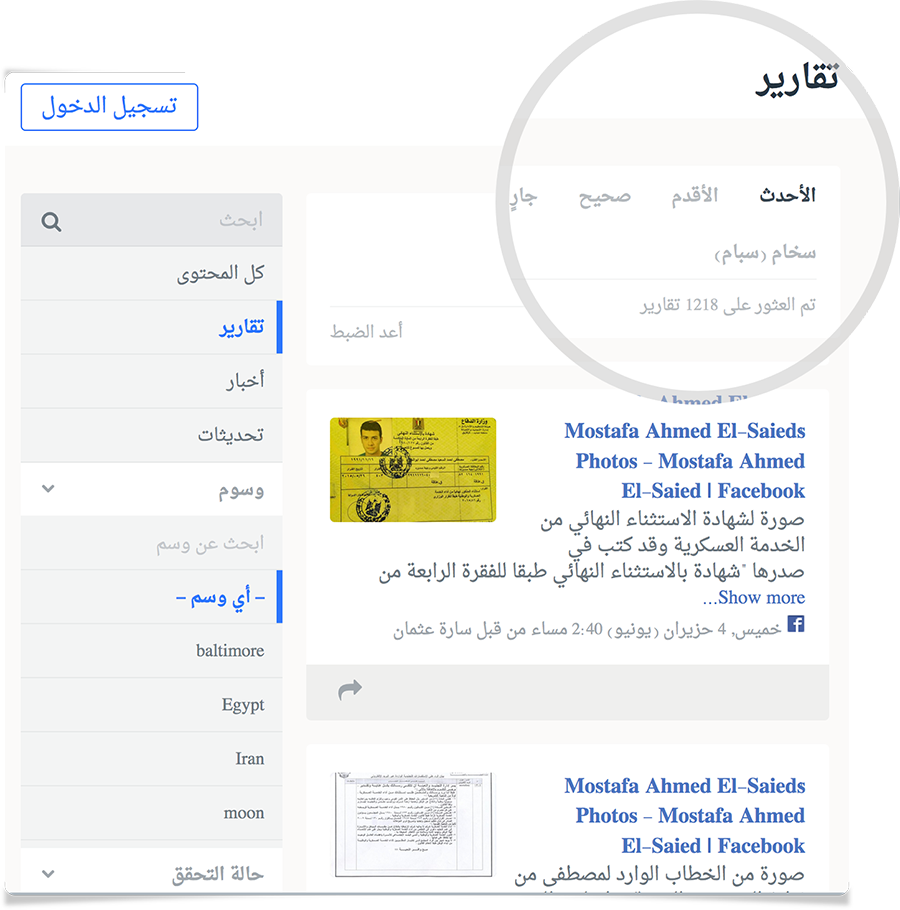
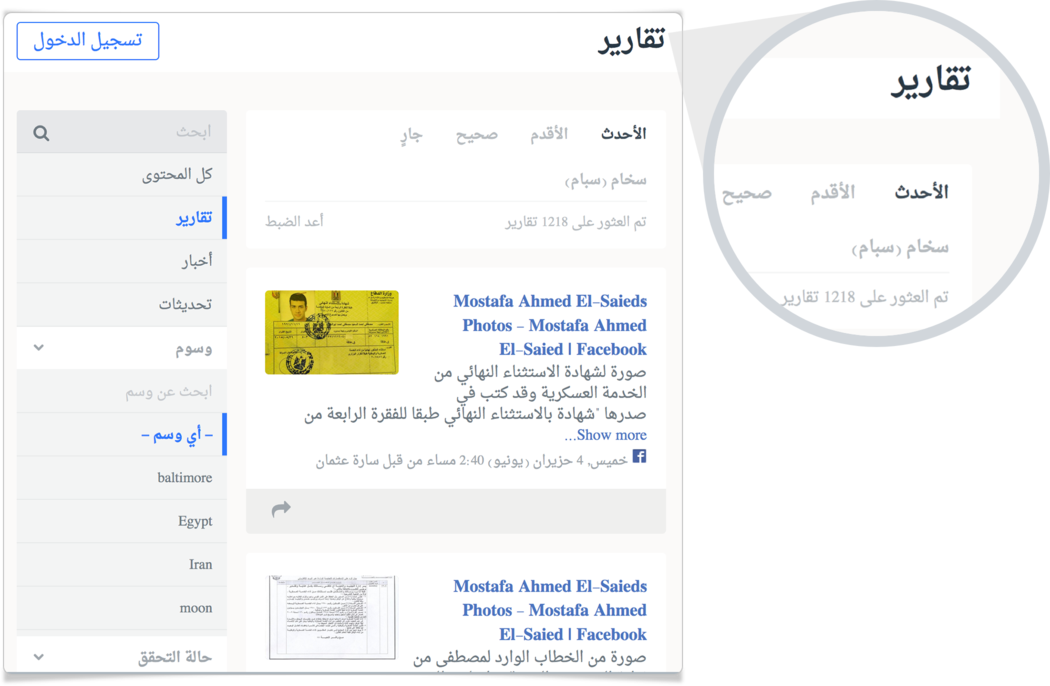
screenshots responsive. new style with cone screenshots in for arabic.

diff --git a/www/css/screen.css b/www/css/screen.css
@@ -1,1 +1,1 @@
-@import url("http://fonts.googleapis.com/css?family=Open+Sans:100,200,300,400,600");@import url("http://fonts.googleapis.com/css?family=Roboto:100,200,500");@import url("http://fonts.googleapis.com/earlyaccess/droidarabicnaskh.css");html{font-family:sans-serif;-ms-text-size-adjust:100%;-webkit-text-size-adjust:100%}body{margin:0}article,aside,details,figcaption,figure,footer,header,hgroup,main,menu,nav,section,.footer,summary{display:block}audio,canvas,progress,video{display:inline-block;vertical-align:baseline}audio:not([controls]){display:none;height:0}[hidden],template{display:none}a{background-color:transparent}a:active,a:hover{outline:0}abbr[title]{border-bottom:1px dotted}b,strong{font-weight:bold}dfn{font-style:italic}h1{font-size:2em;margin:0.67em 0}mark{background:#ff0;color:#000}small{font-size:80%}sub,sup{font-size:75%;line-height:0;position:relative;vertical-align:baseline}sup{top:-0.5em}sub{bottom:-0.25em}img{border:0}svg:not(:root){overflow:hidden}figure{margin:1em 40px}hr{box-sizing:content-box;height:0}pre{overflow:auto}code,kbd,pre,samp{font-family:monospace, monospace;font-size:1em}button,input,optgroup,select,textarea{color:inherit;font:inherit;margin:0}button{overflow:visible}button,select{text-transform:none}button,html input[type="button"],input[type="reset"],input[type="submit"]{-webkit-appearance:button;cursor:pointer}button[disabled],html input[disabled]{cursor:default}button::-moz-focus-inner,input::-moz-focus-inner{border:0;padding:0}input{line-height:normal}input[type="checkbox"],input[type="radio"]{box-sizing:border-box;padding:0}input[type="number"]::-webkit-inner-spin-button,input[type="number"]::-webkit-outer-spin-button{height:auto}input[type="search"]{-webkit-appearance:textfield;box-sizing:content-box}input[type="search"]::-webkit-search-cancel-button,input[type="search"]::-webkit-search-decoration{-webkit-appearance:none}fieldset{border:1px solid #c0c0c0;margin:0 2px;padding:0.35em 0.625em 0.75em}legend{border:0;padding:0}textarea{overflow:auto}optgroup{font-weight:bold}table{border-collapse:collapse;border-spacing:0}td,th{padding:0}*{box-sizing:border-box}body{min-width:320px}.projects,.logos,.home .latest .medium-channels,.home .team ul,.twocolumn{display:-webkit-box;display:-webkit-flex;display:-ms-flexbox;display:flex;-webkit-flex-flow:wrap row;-ms-flex-flow:wrap row;flex-flow:wrap row;-webkit-box-pack:center;-webkit-justify-content:center;-ms-flex-pack:center;justify-content:center;flex-align:center;-webkit-box-align:center;-webkit-align-items:center;-ms-flex-align:center;align-items:center}.form-group input,.ar form input[type='submit']{border-radius:4px;border-bottom-right-radius:0;border-top-right-radius:0;border-right-width:0}.form-group input[type='submit'],.ar form input{border-radius:4px;border-bottom-left-radius:0;border-left-width:0;border-top-left-radius:0}.form-group input[type='email'],.form-group input[type='text'],.form-group input[type='submit']{z-index:1}.form-group label{color:rgba(64,77,89,0.4);font-size:0.8em;font-weight:300;position:absolute;top:-2em;z-index:2}.form-group{display:-webkit-box;display:-webkit-flex;display:-ms-flexbox;display:flex;margin:2em auto;max-width:600px;min-width:320px;position:relative}.form-group input{padding:0.4em;border:2px solid #b7bcc0}.form-group input[type='submit']{color:white;background-color:#b7bcc0;padding-left:1.5em;padding-right:1.5em;margin:0 !important;border-color:#9ca3a8}.form-group input[type="email"]{-webkit-box-flex:1;-webkit-flex:1;-ms-flex:1;flex:1}body{-webkit-backface-visibility:hidden;backface-visibility:hidden}@-webkit-keyframes fadeIn{from{opacity:0}to{opacity:1}}@keyframes fadeIn{from{opacity:0}to{opacity:1}}@-webkit-keyframes fadeInUp{0%{opacity:0;-webkit-transform:translate3d(0, 10%, 0);transform:translate3d(0, 10%, 0)}100%{opacity:1;-webkit-transform:none;transform:none}}@keyframes fadeInUp{0%{opacity:0;-webkit-transform:translate3d(0, 10%, 0);transform:translate3d(0, 10%, 0)}100%{opacity:1;-webkit-transform:none;transform:none}}@-webkit-keyframes lightSpeedIn{0%{-webkit-transform:translateX(100%) skewX(-25deg);transform:translateX(100%) skewX(-25deg);opacity:0}60%{-webkit-transform:translateX(-20%) skewX(25deg);transform:translateX(-20%) skewX(25deg);opacity:1}80%{-webkit-transform:translateX(0%) skewX(-12.5deg);transform:translateX(0%) skewX(-12.5deg);opacity:1}100%{-webkit-transform:translateX(0%) skewX(0deg);transform:translateX(0%) skewX(0deg);opacity:1}}@keyframes lightSpeedIn{0%{-webkit-transform:translateX(100%) skewX(-25deg);transform:translateX(100%) skewX(-25deg);opacity:0}60%{-webkit-transform:translateX(-20%) skewX(25deg);transform:translateX(-20%) skewX(25deg);opacity:1}80%{-webkit-transform:translateX(0%) skewX(-12.5deg);transform:translateX(0%) skewX(-12.5deg);opacity:1}100%{-webkit-transform:translateX(0%) skewX(0deg);transform:translateX(0%) skewX(0deg);opacity:1}}@-webkit-keyframes jello{11.1%{-webkit-transform:none;transform:none}22.2%{-webkit-transform:skewX(-12.5deg) skewY(-12.5deg);transform:skewX(-12.5deg) skewY(-12.5deg)}33.3%{-webkit-transform:skewX(6.25deg) skewY(6.25deg);transform:skewX(6.25deg) skewY(6.25deg)}44.4%{-webkit-transform:skewX(-3.125deg) skewY(-3.125deg);transform:skewX(-3.125deg) skewY(-3.125deg)}55.5%{-webkit-transform:skewX(1.5625deg) skewY(1.5625deg);transform:skewX(1.5625deg) skewY(1.5625deg)}66.6%{-webkit-transform:skewX(-0.78125deg) skewY(-0.78125deg);transform:skewX(-0.78125deg) skewY(-0.78125deg)}77.7%{-webkit-transform:skewX(0.39063deg) skewY(0.39063deg);transform:skewX(0.39063deg) skewY(0.39063deg)}88.8%{-webkit-transform:skewX(-0.19531deg) skewY(-0.19531deg);transform:skewX(-0.19531deg) skewY(-0.19531deg)}100%{-webkit-transform:none;transform:none}}@keyframes jello{11.1%{-webkit-transform:none;transform:none}22.2%{-webkit-transform:skewX(-12.5deg) skewY(-12.5deg);transform:skewX(-12.5deg) skewY(-12.5deg)}33.3%{-webkit-transform:skewX(6.25deg) skewY(6.25deg);transform:skewX(6.25deg) skewY(6.25deg)}44.4%{-webkit-transform:skewX(-3.125deg) skewY(-3.125deg);transform:skewX(-3.125deg) skewY(-3.125deg)}55.5%{-webkit-transform:skewX(1.5625deg) skewY(1.5625deg);transform:skewX(1.5625deg) skewY(1.5625deg)}66.6%{-webkit-transform:skewX(-0.78125deg) skewY(-0.78125deg);transform:skewX(-0.78125deg) skewY(-0.78125deg)}77.7%{-webkit-transform:skewX(0.39063deg) skewY(0.39063deg);transform:skewX(0.39063deg) skewY(0.39063deg)}88.8%{-webkit-transform:skewX(-0.19531deg) skewY(-0.19531deg);transform:skewX(-0.19531deg) skewY(-0.19531deg)}100%{-webkit-transform:none;transform:none}}@-webkit-keyframes bounceIn{0%{opacity:0;-webkit-transform:scale(0.3);transform:scale(0.3)}50%{opacity:1;-webkit-transform:scale(1.05);transform:scale(1.05)}70%{-webkit-transform:scale(0.9);transform:scale(0.9)}100%{-webkit-transform:scale(1);transform:scale(1)}}@keyframes bounceIn{0%{opacity:0;-webkit-transform:scale(0.3);transform:scale(0.3)}50%{opacity:1;-webkit-transform:scale(1.05);transform:scale(1.05)}70%{-webkit-transform:scale(0.9);transform:scale(0.9)}100%{-webkit-transform:scale(1);transform:scale(1)}}@-webkit-keyframes zoomInUp{0%{opacity:0;-webkit-transform:scale3d(0.1, 0.1, 0.1) translate3d(0, 1000px, 0);transform:scale3d(0.1, 0.1, 0.1) translate3d(0, 1000px, 0);-webkit-animation-timing-function:cubic-bezier(0.55, 0.055, 0.675, 0.19);animation-timing-function:cubic-bezier(0.55, 0.055, 0.675, 0.19)}60%{opacity:1;-webkit-transform:scale3d(0.475, 0.475, 0.475) translate3d(0, -60px, 0);transform:scale3d(0.475, 0.475, 0.475) translate3d(0, -60px, 0);-webkit-animation-timing-function:cubic-bezier(0.175, 0.885, 0.32, 1);animation-timing-function:cubic-bezier(0.175, 0.885, 0.32, 1)}}@keyframes zoomInUp{0%{opacity:0;-webkit-transform:scale3d(0.1, 0.1, 0.1) translate3d(0, 1000px, 0);transform:scale3d(0.1, 0.1, 0.1) translate3d(0, 1000px, 0);-webkit-animation-timing-function:cubic-bezier(0.55, 0.055, 0.675, 0.19);animation-timing-function:cubic-bezier(0.55, 0.055, 0.675, 0.19)}60%{opacity:1;-webkit-transform:scale3d(0.475, 0.475, 0.475) translate3d(0, -60px, 0);transform:scale3d(0.475, 0.475, 0.475) translate3d(0, -60px, 0);-webkit-animation-timing-function:cubic-bezier(0.175, 0.885, 0.32, 1);animation-timing-function:cubic-bezier(0.175, 0.885, 0.32, 1)}}body{color:#404d59;font-family:"Open Sans","Helvetica Neue","Helvetica",sans-serif;font-size:20px;font-weight:300;line-height:1.5;text-align:center}body.ar{line-height:1.3;font-family:"Droid Arabic Naskh","Open Sans",serif;direction:rtl;letter-spacing:0}body.ar p.tagline{text-align:right}body.ar .description p{text-align:right}p:nth-of-type(1){padding-bottom:2em}h1{color:rgba(0,0,0,0.5);font-family:Roboto,"Open Sans","Helvetica Neue","Helvetica",sans-serif;font-size:2.6em;font-weight:100;letter-spacing:0.1em;letter-spacing:0.2em;padding:0.5em 0.5em 0.2em 0.5em;text-transform:uppercase}h2,h3,h4{display:block;font-family:Roboto,"Open Sans","Helvetica Neue","Helvetica",sans-serif;font-size:1.5em;font-weight:200;letter-spacing:0.1em;line-height:1.2;margin:0;padding:3em 1em 2em;text-transform:uppercase}@media all and (max-width: 900px){h2,h3,h4{padding:2em 1em;}}em{font-style:italic}ul{margin:0.5em 0;padding:0;text-align:center}@media all and (max-width: 900px){ul{margin-top:0.5em 0 0;}}li{display:inline-block;padding:0 1em 1em}@media all and (max-width: 900px){li{padding:0 0.5em 0.5em;display:block;}}@media all and (max-width: 900px){li>a{display:block;padding:1.4em;}}p{display:block;font-size:1em;line-height:1.85;margin:0 auto;max-width:35em;padding:0;width:100%}@media all and (max-width: 900px){p{line-height:1.85;padding:1em 0.7em;width:80%;}}a{color:#6d9ed3}a:hover{color:#596d74;-webkit-transition:0.4s;transition:0.4s}body.ar{line-height:1.3;font-family:"Droid Arabic Naskh","Open Sans",serif}body.ar p.tagline{text-align:right}body.ar .description p{text-align:right}section.contact,.contact.footer{background:#404d59;color:#e7e8ea}section.contact li,.contact.footer li{display:inline-block;vertical-align:top}section.contact li p,.contact.footer li p{margin:0;padding:0}section.contact .contact--visit .locations li,.contact.footer .contact--visit .locations li{clear:none;font-family:Roboto,"Open Sans","Helvetica Neue","Helvetica",sans-serif;height:12em}@media all and (min-width: 900px){section.contact .contact--visit .locations li,.contact.footer .contact--visit .locations li{width:33%;}}section.contact .contact--visit .locations li h4,.contact.footer .contact--visit .locations li h4{font-size:0.8em;font-weight:100;margin:1em}section.contact .contact--visit .locations li p,.contact.footer .contact--visit .locations li p{-webkit-filter:opacity(0.7);filter:opacity(0.7);font-size:0.8em;font-weight:100;margin:0 auto}section.contact .contact--call a,.contact.footer .contact--call a,section.contact .contact--write a,.contact.footer .contact--write a{font-size:1.6em;border:1px solid rgba(255,255,255,0.5);padding:1em 0.8em;color:rgba(255,255,255,0.8);display:block;font-family:Roboto,"Open Sans","Helvetica Neue","Helvetica",sans-serif;font-weight:100;-webkit-transition:0.6s;transition:0.6s;text-decoration:none}section.contact .contact--call a:hover,.contact.footer .contact--call a:hover,section.contact .contact--write a:hover,.contact.footer .contact--write a:hover{color:white;border-color:white;-webkit-transition:0s;transition:0s;background-color:rgba(250,251,251,0.1);-webkit-transition:0.3s;transition:0.3s}@media all and (max-width: 900px){section.contact .contact--call a,.contact.footer .contact--call a,section.contact .contact--write a,.contact.footer .contact--write a{font-size:1em;}}section.contact .contact--social-media,.contact.footer .contact--social-media{-webkit-columns:100% 4;-moz-columns:100% 4;columns:100% 4;margin:2em 0 0;padding:0;-webkit-transition:200ms;transition:200ms;width:100%}section.contact .contact--social-media a,.contact.footer .contact--social-media a{text-decoration:none;border-bottom:none;-webkit-transition:0.5s;transition:0.5s}section.contact .contact--social-media a:hover,.contact.footer .contact--social-media a:hover{-webkit-filter:opacity(0.7);filter:opacity(0.7)}section.contact .contact--social-media a svg,.contact.footer .contact--social-media a svg{width:80px}.projects{background:-webkit-linear-gradient(340deg, #e4ba2a, #f16457);background:linear-gradient(110deg, #e4ba2a, #f16457)}.projects>div{background:rgba(255,255,255,0.1);border:1px solid rgba(250,251,251,0.2)}.projects{background:#404d59}.projects{-webkit-box-pack:center;-webkit-justify-content:center;-ms-flex-pack:center;justify-content:center}@media (max-width: 900px){.projects>div,.projects svg{width:100%}}.projects .bridge svg{width:11em}.projects .checkdesk svg{width:15em}.projects h3{width:100%;color:white}.projects .bridge,.projects .checkdesk{color:#fafbfb;padding:2em 2em;width:40%;margin:1em}@media all and (max-width: 900px){.projects .bridge,.projects .checkdesk{width:100%;}}.projects .bridge p,.projects .checkdesk p{font-size:1em;line-height:1.3;padding-bottom:1em}.projects .bridge p.blurb,.projects .checkdesk p.blurb{min-height:11em}.projects .bridge p.blurb,.projects .bridge p.learn,.projects .checkdesk p.blurb,.projects .checkdesk p.learn{font-size:0.8em}.projects .bridge p.tagline,.projects .checkdesk p.tagline{font-weight:500;color:rgba(255,255,255,0.8);padding:0.5em 0 2em 0em}.projects .bridge p a,.projects .checkdesk p a{background-color:rgba(255,255,255,0.1);border-radius:14px;color:white;font-size:0.9em;padding:0 0.5em;text-decoration:none}@media all and (max-width: 900px){.projects .bridge svg,.projects .checkdesk svg{max-width:300px;width:100%}.projects .bridge p,.projects .checkdesk p{padding:0;width:95%}}.branding{padding:2em 1em 1em}.branding h1{margin:0;font-size:2.5em;font:Roboto,"Open Sans","Helvetica Neue","Helvetica",sans-serif;-webkit-animation:fadeIn 1.2s;animation:fadeIn 1.2s}.branding .screenshot{max-width:900px;min-width:320px;padding-top:2em;padding-bottom:2em;width:80%;margin:0 auto;-webkit-animation:fadeInUp 1s;animation:fadeInUp 1s}.branding .zoom{top:175px;-webkit-animation:fadeIn 2s;animation:fadeIn 2s}.branding .slogan{padding:1em 0;font-size:1.25em;-webkit-animation:fadeIn 1.2s;animation:fadeIn 1.2s}.branding .about{-webkit-animation:fadeIn 2.5s;animation:fadeIn 2.5s;padding:2em 0}.branding .logo{width:200px;-webkit-animation:fadeIn 0.8s;animation:fadeIn 0.8s}.bridge .branding .logo,.checkdesk .branding .logo{width:300px}@media all and (max-width: 900px){.branding .logo{max-width:200px;width:70%}}.logos a{padding:1em}.logos img,.logos svg{max-width:150px;max-height:50px}.logos .acm svg,.logos .acm img,.logos .sida svg,.logos .sida img{max-width:100px}.logos .kf svg,.logos .kf img{width:250px}.logos .kf svg,.logos .kf img,.logos .gv svg,.logos .gv img,.logos .ff svg,.logos .ff img,.logos .bcu svg,.logos .bcu img,.logos .smex svg,.logos .smex img,.logos .bc svg,.logos .bc img,.logos .vc svg,.logos .vc img,.logos .cambridge svg,.logos .cambridge img{max-width:250px}.logos .bc img{max-height:90px}.logos .ng{margin-top:10px}.home .latest{padding-bottom:6em}.home .latest .medium-channels{-webkit-box-pack:center;-webkit-justify-content:center;-ms-flex-pack:center;justify-content:center}.home .latest .medium-channels .medium-channel{margin:1em 1em}.home .latest .medium-channels .medium-channel iframe{height:620px !important}.home .team ul{margin:0 auto}@media (max-width: 320px){.home .team ul{width:320px;}}@media (min-width: 480px){.home .team ul{width:480px;}}@media (min-width: 800px){.home .team ul{width:800px;}}@media (min-width: 1120px){.home .team ul{width:1120px;}}@media (min-width: 1600px){.home .team ul{width:1600px;}}@media (min-width: 2240px){.home .team ul{width:2240px;}}.home .team ul .name{font-weight:500;padding-top:.5em}.home .team ul li{-webkit-box-flex:0;-webkit-flex:0 1 auto;-ms-flex:0 1 auto;flex:0 1 auto;font-family:Roboto,"Open Sans","Helvetica Neue","Helvetica",sans-serif;font-size:0.7em;height:15em;width:160px}.home .team ul img{border-radius:50%;max-height:100px;max-width:100px;width:100%;-webkit-filter:sepia(25%);filter:sepia(25%)}.explanations{margin:0 auto;padding:1;width:100%;max-width:800px}.explanations h4{font-size:1;font-weight:100;padding:3em 0em .5em 0em;width:100%}.explanations p{display:inline-block;font-size:1.2em;vertical-align:top;text-align:left;width:100%;padding:1em 1em}@media (max-width: 900px){.explanations p{width:100%;padding:1em;}}.explanations img.screenshot{display:inline-block;margin:2% 5%}@media (max-width: 640px){.explanations img.screenshot{height:100%;}}.footer{background-color:#283743;padding:1em}.footer a{color:white}body.bridge .branding,body.bridge .api,body.bridge .history,body.bridge .footer{background:#42476f;color:rgba(255,255,255,0.8)}body.bridge .supporters,body.bridge .explanations{background-color:white;color:#404d59}.home .photo-frame{background-color:#283743;background-image:url("../images/1x/banners/banner-2.jpg");background-position:50%;background-size:cover;background-repeat:no-repeat;vertical-align:middle;width:100%;margin:0 auto;-webkit-transition:2s;transition:2s;color:white;padding:4em 0;text-shadow:0 0 5px black}nav.language-toggle{position:absolute;top:0;right:0;margin:0.8em;padding:0.3em 1em;background-color:rgba(255,255,255,0.1);border-radius:5em}nav.language-toggle a{color:rgba(0,0,0,0.5);text-decoration:none;padding:0.2em 0.3em 0}:lang(ar) nav.language-toggle a.arabic,:lang(en) nav.language-toggle a.english{color:black;font-weight:700}nav.language-toggle a.english{float:left;font-size:0.8em;margin-top:0.2em}nav.language-toggle a.arabic{float:right}.bridge .signup{color:rgba(255,255,255,0.7);font-size:0.8em;padding:2em 0 0.5em;background:250% #42476f url("/images/2x/banners/topo.png");font-weight:200;letter-spacing:0.03em}.bridge .signup p{margin-top:0.5em;line-height:1.6}.bridge .signup h2{font-size:1em;padding:0.5em}.bridge .signup a{color:white;color:white;text-decoration:none;text-shadow:0.03em 0 #42476f,-0.03em 0 #42476f,0 0.03em #42476f,0 -0.03em #42476f,0.06em 0 #42476f,-0.06em 0 #42476f,0.09em 0 #42476f,-0.09em 0 #42476f,0.12em 0 #42476f,-0.12em 0 #42476f,0.15em 0 #42476f,-0.15em 0 #42476f;background-image:-webkit-linear-gradient(#42476f, #42476f), linear-gradient(#42476f, #42476f), linear-gradient(white, white);background-image:linear-gradient(#42476f, #42476f),linear-gradient(#42476f, #42476f),linear-gradient(white, white);background-size:.05em 1px,.05em 1px,1px 1px;background-repeat:no-repeat, no-repeat, repeat-x;background-position:0% 90%,100% 90%,0% 90%}.bridge .signup a::-moz-selection{text-shadow:0.03em 0 #b4d5fe,-0.03em 0 #b4d5fe,0 0.03em #b4d5fe,0 -0.03em #b4d5fe,0.06em 0 #b4d5fe,-0.06em 0 #b4d5fe,0.09em 0 #b4d5fe,-0.09em 0 #b4d5fe,0.12em 0 #b4d5fe,-0.12em 0 #b4d5fe,0.15em 0 #b4d5fe,-0.15em 0 #b4d5fe;background-color:#b4d5fe}.bridge .signup a::selection{text-shadow:0.03em 0 #b4d5fe,-0.03em 0 #b4d5fe,0 0.03em #b4d5fe,0 -0.03em #b4d5fe,0.06em 0 #b4d5fe,-0.06em 0 #b4d5fe,0.09em 0 #b4d5fe,-0.09em 0 #b4d5fe,0.12em 0 #b4d5fe,-0.12em 0 #b4d5fe,0.15em 0 #b4d5fe,-0.15em 0 #b4d5fe;background-color:#b4d5fe}.bridge .signup a::-moz-selection{text-shadow:0.03em 0 #b4d5fe,-0.03em 0 #b4d5fe,0 0.03em #b4d5fe,0 -0.03em #b4d5fe,0.06em 0 #b4d5fe,-0.06em 0 #b4d5fe,0.09em 0 #b4d5fe,-0.09em 0 #b4d5fe,0.12em 0 #b4d5fe,-0.12em 0 #b4d5fe,0.15em 0 #b4d5fe,-0.15em 0 #b4d5fe;background-color:#b4d5fe}.bridge .signup a:before,.bridge .signup a:after,.bridge .signup a *,.bridge .signup a *:before,.bridge .signup a *:after{text-shadow:none}.bridge .signup a:visited{color:white}.bridge .history a{color:white;color:white;text-decoration:none;text-shadow:0.03em 0 #42476f,-0.03em 0 #42476f,0 0.03em #42476f,0 -0.03em #42476f,0.06em 0 #42476f,-0.06em 0 #42476f,0.09em 0 #42476f,-0.09em 0 #42476f,0.12em 0 #42476f,-0.12em 0 #42476f,0.15em 0 #42476f,-0.15em 0 #42476f;background-image:-webkit-linear-gradient(#42476f, #42476f), linear-gradient(#42476f, #42476f), linear-gradient(white, white);background-image:linear-gradient(#42476f, #42476f),linear-gradient(#42476f, #42476f),linear-gradient(white, white);background-size:.05em 1px,.05em 1px,1px 1px;background-repeat:no-repeat, no-repeat, repeat-x;background-position:0% 90%,100% 90%,0% 90%}.bridge .history a::-moz-selection{text-shadow:0.03em 0 #b4d5fe,-0.03em 0 #b4d5fe,0 0.03em #b4d5fe,0 -0.03em #b4d5fe,0.06em 0 #b4d5fe,-0.06em 0 #b4d5fe,0.09em 0 #b4d5fe,-0.09em 0 #b4d5fe,0.12em 0 #b4d5fe,-0.12em 0 #b4d5fe,0.15em 0 #b4d5fe,-0.15em 0 #b4d5fe;background-color:#b4d5fe}.bridge .history a::selection{text-shadow:0.03em 0 #b4d5fe,-0.03em 0 #b4d5fe,0 0.03em #b4d5fe,0 -0.03em #b4d5fe,0.06em 0 #b4d5fe,-0.06em 0 #b4d5fe,0.09em 0 #b4d5fe,-0.09em 0 #b4d5fe,0.12em 0 #b4d5fe,-0.12em 0 #b4d5fe,0.15em 0 #b4d5fe,-0.15em 0 #b4d5fe;background-color:#b4d5fe}.bridge .history a::-moz-selection{text-shadow:0.03em 0 #b4d5fe,-0.03em 0 #b4d5fe,0 0.03em #b4d5fe,0 -0.03em #b4d5fe,0.06em 0 #b4d5fe,-0.06em 0 #b4d5fe,0.09em 0 #b4d5fe,-0.09em 0 #b4d5fe,0.12em 0 #b4d5fe,-0.12em 0 #b4d5fe,0.15em 0 #b4d5fe,-0.15em 0 #b4d5fe;background-color:#b4d5fe}.bridge .history a:before,.bridge .history a:after,.bridge .history a *,.bridge .history a *:before,.bridge .history a *:after{text-shadow:none}.bridge .history a:visited{color:white}body.checkdesk .explanations{background-color:white;color:#404d59}body.checkdesk .team{background-color:#f1f2ed}body.checkdesk .branding{background-color:#e4ba2a;color:white}body.checkdesk .history,body.checkdesk .github,body.checkdesk .footer{background-color:#404d59;color:#e7e8ea}body.checkdesk .history a,body.checkdesk .github a,body.checkdesk .footer a{color:rgba(255,255,255,0.7);padding:0.18em}body.checkdesk .history a a:hover,body.checkdesk .github a a:hover,body.checkdesk .footer a a:hover{background-color:rgba(231,232,234,0.5)}body.checkdesk .newsletter{background-color:#fafbfb}body.checkdesk .partners{background-color:white}.checkdesk .form-group{font-size:1.3em}.checkdesk .form-group input{font-size:inherit}body.ar{direction:rtl}.footer{font-size:smaller}body.home{background-color:white}.twocolumn{-webkit-box-pack:center;-webkit-justify-content:center;-ms-flex-pack:center;justify-content:center}.quote{max-width:45%;padding:1em 1.5em 2em 1em}.quote p{font-size:1em}@media all and (max-width: 900px){.quote{min-width:100%;}}.quote p.bottomquote{font-weight:500;padding:0 0 0 0}
+@import url("http://fonts.googleapis.com/css?family=Open+Sans:100,200,300,400,600");@import url("http://fonts.googleapis.com/css?family=Roboto:100,200,500");@import url("http://fonts.googleapis.com/earlyaccess/droidarabicnaskh.css");html{font-family:sans-serif;-ms-text-size-adjust:100%;-webkit-text-size-adjust:100%}body{margin:0}article,aside,details,figcaption,figure,footer,header,hgroup,main,menu,nav,section,.footer,summary{display:block}audio,canvas,progress,video{display:inline-block;vertical-align:baseline}audio:not([controls]){display:none;height:0}[hidden],template{display:none}a{background-color:transparent}a:active,a:hover{outline:0}abbr[title]{border-bottom:1px dotted}b,strong{font-weight:bold}dfn{font-style:italic}h1{font-size:2em;margin:0.67em 0}mark{background:#ff0;color:#000}small{font-size:80%}sub,sup{font-size:75%;line-height:0;position:relative;vertical-align:baseline}sup{top:-0.5em}sub{bottom:-0.25em}img{border:0}svg:not(:root){overflow:hidden}figure{margin:1em 40px}hr{box-sizing:content-box;height:0}pre{overflow:auto}code,kbd,pre,samp{font-family:monospace, monospace;font-size:1em}button,input,optgroup,select,textarea{color:inherit;font:inherit;margin:0}button{overflow:visible}button,select{text-transform:none}button,html input[type="button"],input[type="reset"],input[type="submit"]{-webkit-appearance:button;cursor:pointer}button[disabled],html input[disabled]{cursor:default}button::-moz-focus-inner,input::-moz-focus-inner{border:0;padding:0}input{line-height:normal}input[type="checkbox"],input[type="radio"]{box-sizing:border-box;padding:0}input[type="number"]::-webkit-inner-spin-button,input[type="number"]::-webkit-outer-spin-button{height:auto}input[type="search"]{-webkit-appearance:textfield;box-sizing:content-box}input[type="search"]::-webkit-search-cancel-button,input[type="search"]::-webkit-search-decoration{-webkit-appearance:none}fieldset{border:1px solid #c0c0c0;margin:0 2px;padding:0.35em 0.625em 0.75em}legend{border:0;padding:0}textarea{overflow:auto}optgroup{font-weight:bold}table{border-collapse:collapse;border-spacing:0}td,th{padding:0}*{box-sizing:border-box}body{min-width:320px}.projects,.logos,.home .latest .medium-channels,.home .team ul,.twocolumn{display:-webkit-box;display:-webkit-flex;display:-ms-flexbox;display:flex;-webkit-flex-flow:wrap row;-ms-flex-flow:wrap row;flex-flow:wrap row;-webkit-box-pack:center;-webkit-justify-content:center;-ms-flex-pack:center;justify-content:center;flex-align:center;-webkit-box-align:center;-webkit-align-items:center;-ms-flex-align:center;align-items:center}.form-group input,.ar form input[type='submit']{border-radius:4px;border-bottom-right-radius:0;border-top-right-radius:0;border-right-width:0}.form-group input[type='submit'],.ar form input{border-radius:4px;border-bottom-left-radius:0;border-left-width:0;border-top-left-radius:0}.form-group input[type='email'],.form-group input[type='text'],.form-group input[type='submit']{z-index:1}.form-group label{color:rgba(64,77,89,0.4);font-size:0.8em;font-weight:300;position:absolute;top:-2em;z-index:2}.form-group{display:-webkit-box;display:-webkit-flex;display:-ms-flexbox;display:flex;margin:2em auto;max-width:600px;min-width:320px;position:relative}.form-group input{padding:0.4em;border:2px solid #b7bcc0}.form-group input[type='submit']{color:white;background-color:#b7bcc0;padding-left:1.5em;padding-right:1.5em;margin:0 !important;border-color:#9ca3a8}.form-group input[type="email"]{-webkit-box-flex:1;-webkit-flex:1;-ms-flex:1;flex:1}body{-webkit-backface-visibility:hidden;backface-visibility:hidden}@-webkit-keyframes fadeIn{from{opacity:0}to{opacity:1}}@keyframes fadeIn{from{opacity:0}to{opacity:1}}@-webkit-keyframes fadeInUp{0%{opacity:0;-webkit-transform:translate3d(0, 10%, 0);transform:translate3d(0, 10%, 0)}100%{opacity:1;-webkit-transform:none;transform:none}}@keyframes fadeInUp{0%{opacity:0;-webkit-transform:translate3d(0, 10%, 0);transform:translate3d(0, 10%, 0)}100%{opacity:1;-webkit-transform:none;transform:none}}@-webkit-keyframes lightSpeedIn{0%{-webkit-transform:translateX(100%) skewX(-25deg);transform:translateX(100%) skewX(-25deg);opacity:0}60%{-webkit-transform:translateX(-20%) skewX(25deg);transform:translateX(-20%) skewX(25deg);opacity:1}80%{-webkit-transform:translateX(0%) skewX(-12.5deg);transform:translateX(0%) skewX(-12.5deg);opacity:1}100%{-webkit-transform:translateX(0%) skewX(0deg);transform:translateX(0%) skewX(0deg);opacity:1}}@keyframes lightSpeedIn{0%{-webkit-transform:translateX(100%) skewX(-25deg);transform:translateX(100%) skewX(-25deg);opacity:0}60%{-webkit-transform:translateX(-20%) skewX(25deg);transform:translateX(-20%) skewX(25deg);opacity:1}80%{-webkit-transform:translateX(0%) skewX(-12.5deg);transform:translateX(0%) skewX(-12.5deg);opacity:1}100%{-webkit-transform:translateX(0%) skewX(0deg);transform:translateX(0%) skewX(0deg);opacity:1}}@-webkit-keyframes jello{11.1%{-webkit-transform:none;transform:none}22.2%{-webkit-transform:skewX(-12.5deg) skewY(-12.5deg);transform:skewX(-12.5deg) skewY(-12.5deg)}33.3%{-webkit-transform:skewX(6.25deg) skewY(6.25deg);transform:skewX(6.25deg) skewY(6.25deg)}44.4%{-webkit-transform:skewX(-3.125deg) skewY(-3.125deg);transform:skewX(-3.125deg) skewY(-3.125deg)}55.5%{-webkit-transform:skewX(1.5625deg) skewY(1.5625deg);transform:skewX(1.5625deg) skewY(1.5625deg)}66.6%{-webkit-transform:skewX(-0.78125deg) skewY(-0.78125deg);transform:skewX(-0.78125deg) skewY(-0.78125deg)}77.7%{-webkit-transform:skewX(0.39063deg) skewY(0.39063deg);transform:skewX(0.39063deg) skewY(0.39063deg)}88.8%{-webkit-transform:skewX(-0.19531deg) skewY(-0.19531deg);transform:skewX(-0.19531deg) skewY(-0.19531deg)}100%{-webkit-transform:none;transform:none}}@keyframes jello{11.1%{-webkit-transform:none;transform:none}22.2%{-webkit-transform:skewX(-12.5deg) skewY(-12.5deg);transform:skewX(-12.5deg) skewY(-12.5deg)}33.3%{-webkit-transform:skewX(6.25deg) skewY(6.25deg);transform:skewX(6.25deg) skewY(6.25deg)}44.4%{-webkit-transform:skewX(-3.125deg) skewY(-3.125deg);transform:skewX(-3.125deg) skewY(-3.125deg)}55.5%{-webkit-transform:skewX(1.5625deg) skewY(1.5625deg);transform:skewX(1.5625deg) skewY(1.5625deg)}66.6%{-webkit-transform:skewX(-0.78125deg) skewY(-0.78125deg);transform:skewX(-0.78125deg) skewY(-0.78125deg)}77.7%{-webkit-transform:skewX(0.39063deg) skewY(0.39063deg);transform:skewX(0.39063deg) skewY(0.39063deg)}88.8%{-webkit-transform:skewX(-0.19531deg) skewY(-0.19531deg);transform:skewX(-0.19531deg) skewY(-0.19531deg)}100%{-webkit-transform:none;transform:none}}@-webkit-keyframes bounceIn{0%{opacity:0;-webkit-transform:scale(0.3);transform:scale(0.3)}50%{opacity:1;-webkit-transform:scale(1.05);transform:scale(1.05)}70%{-webkit-transform:scale(0.9);transform:scale(0.9)}100%{-webkit-transform:scale(1);transform:scale(1)}}@keyframes bounceIn{0%{opacity:0;-webkit-transform:scale(0.3);transform:scale(0.3)}50%{opacity:1;-webkit-transform:scale(1.05);transform:scale(1.05)}70%{-webkit-transform:scale(0.9);transform:scale(0.9)}100%{-webkit-transform:scale(1);transform:scale(1)}}@-webkit-keyframes zoomInUp{0%{opacity:0;-webkit-transform:scale3d(0.1, 0.1, 0.1) translate3d(0, 1000px, 0);transform:scale3d(0.1, 0.1, 0.1) translate3d(0, 1000px, 0);-webkit-animation-timing-function:cubic-bezier(0.55, 0.055, 0.675, 0.19);animation-timing-function:cubic-bezier(0.55, 0.055, 0.675, 0.19)}60%{opacity:1;-webkit-transform:scale3d(0.475, 0.475, 0.475) translate3d(0, -60px, 0);transform:scale3d(0.475, 0.475, 0.475) translate3d(0, -60px, 0);-webkit-animation-timing-function:cubic-bezier(0.175, 0.885, 0.32, 1);animation-timing-function:cubic-bezier(0.175, 0.885, 0.32, 1)}}@keyframes zoomInUp{0%{opacity:0;-webkit-transform:scale3d(0.1, 0.1, 0.1) translate3d(0, 1000px, 0);transform:scale3d(0.1, 0.1, 0.1) translate3d(0, 1000px, 0);-webkit-animation-timing-function:cubic-bezier(0.55, 0.055, 0.675, 0.19);animation-timing-function:cubic-bezier(0.55, 0.055, 0.675, 0.19)}60%{opacity:1;-webkit-transform:scale3d(0.475, 0.475, 0.475) translate3d(0, -60px, 0);transform:scale3d(0.475, 0.475, 0.475) translate3d(0, -60px, 0);-webkit-animation-timing-function:cubic-bezier(0.175, 0.885, 0.32, 1);animation-timing-function:cubic-bezier(0.175, 0.885, 0.32, 1)}}body{color:#404d59;font-family:"Open Sans","Helvetica Neue","Helvetica",sans-serif;font-size:20px;font-weight:300;line-height:1.5;text-align:center}body.ar{line-height:1.3;font-family:"Droid Arabic Naskh","Open Sans",serif;direction:rtl;letter-spacing:0}body.ar p.tagline{text-align:right}body.ar .description p{text-align:right}p:nth-of-type(1){padding-bottom:2em}h1{color:rgba(0,0,0,0.5);font-family:Roboto,"Open Sans","Helvetica Neue","Helvetica",sans-serif;font-size:2.6em;font-weight:100;letter-spacing:0.1em;letter-spacing:0.2em;padding:0.5em 0.5em 0.2em 0.5em;text-transform:uppercase}h2,h3,h4{display:block;font-family:Roboto,"Open Sans","Helvetica Neue","Helvetica",sans-serif;font-size:1.5em;font-weight:200;letter-spacing:0.1em;line-height:1.2;margin:0;padding:3em 1em 2em;text-transform:uppercase}@media all and (max-width: 900px){h2,h3,h4{padding:2em 1em;}}em{font-style:italic}ul{margin:0.5em 0;padding:0;text-align:center}@media all and (max-width: 900px){ul{margin-top:0.5em 0 0;}}li{display:inline-block;padding:0 1em 1em}@media all and (max-width: 900px){li{padding:0 0.5em 0.5em;display:block;}}@media all and (max-width: 900px){li>a{display:block;padding:1.4em;}}p{display:block;font-size:1em;line-height:1.85;margin:0 auto;max-width:35em;padding:0;width:100%}@media all and (max-width: 900px){p{line-height:1.85;padding:1em 0.7em;width:80%;}}a{color:#6d9ed3}a:hover{color:#596d74;-webkit-transition:0.4s;transition:0.4s}body.ar{line-height:1.3;font-family:"Droid Arabic Naskh","Open Sans",serif}body.ar p.tagline{text-align:right}body.ar .description p{text-align:right}section.contact,.contact.footer{background:#404d59;color:#e7e8ea}section.contact li,.contact.footer li{display:inline-block;vertical-align:top}section.contact li p,.contact.footer li p{margin:0;padding:0}section.contact .contact--visit .locations li,.contact.footer .contact--visit .locations li{clear:none;font-family:Roboto,"Open Sans","Helvetica Neue","Helvetica",sans-serif;height:12em}@media all and (min-width: 900px){section.contact .contact--visit .locations li,.contact.footer .contact--visit .locations li{width:33%;}}section.contact .contact--visit .locations li h4,.contact.footer .contact--visit .locations li h4{font-size:0.8em;font-weight:100;margin:1em}section.contact .contact--visit .locations li p,.contact.footer .contact--visit .locations li p{-webkit-filter:opacity(0.7);filter:opacity(0.7);font-size:0.8em;font-weight:100;margin:0 auto}section.contact .contact--call a,.contact.footer .contact--call a,section.contact .contact--write a,.contact.footer .contact--write a{font-size:1.6em;border:1px solid rgba(255,255,255,0.5);padding:1em 0.8em;color:rgba(255,255,255,0.8);display:block;font-family:Roboto,"Open Sans","Helvetica Neue","Helvetica",sans-serif;font-weight:100;-webkit-transition:0.6s;transition:0.6s;text-decoration:none}section.contact .contact--call a:hover,.contact.footer .contact--call a:hover,section.contact .contact--write a:hover,.contact.footer .contact--write a:hover{color:white;border-color:white;-webkit-transition:0s;transition:0s;background-color:rgba(250,251,251,0.1);-webkit-transition:0.3s;transition:0.3s}@media all and (max-width: 900px){section.contact .contact--call a,.contact.footer .contact--call a,section.contact .contact--write a,.contact.footer .contact--write a{font-size:1em;}}section.contact .contact--social-media,.contact.footer .contact--social-media{-webkit-columns:100% 4;-moz-columns:100% 4;columns:100% 4;margin:2em 0 0;padding:0;-webkit-transition:200ms;transition:200ms;width:100%}section.contact .contact--social-media a,.contact.footer .contact--social-media a{text-decoration:none;border-bottom:none;-webkit-transition:0.5s;transition:0.5s}section.contact .contact--social-media a:hover,.contact.footer .contact--social-media a:hover{-webkit-filter:opacity(0.7);filter:opacity(0.7)}section.contact .contact--social-media a svg,.contact.footer .contact--social-media a svg{width:80px}.projects{background:-webkit-linear-gradient(340deg, #e4ba2a, #f16457);background:linear-gradient(110deg, #e4ba2a, #f16457)}.projects>div{background:rgba(255,255,255,0.1);border:1px solid rgba(250,251,251,0.2)}.projects{background:#404d59}.projects{-webkit-box-pack:center;-webkit-justify-content:center;-ms-flex-pack:center;justify-content:center}@media (max-width: 900px){.projects>div,.projects svg{width:100%}}.projects .bridge svg{width:11em}.projects .checkdesk svg{width:15em}.projects h3{width:100%;color:white}.projects .bridge,.projects .checkdesk{color:#fafbfb;padding:2em 2em;width:40%;margin:1em}@media all and (max-width: 900px){.projects .bridge,.projects .checkdesk{width:100%;}}.projects .bridge p,.projects .checkdesk p{font-size:1em;line-height:1.3;padding-bottom:1em}.projects .bridge p.blurb,.projects .checkdesk p.blurb{min-height:11em}.projects .bridge p.blurb,.projects .bridge p.learn,.projects .checkdesk p.blurb,.projects .checkdesk p.learn{font-size:0.8em}.projects .bridge p.tagline,.projects .checkdesk p.tagline{font-weight:500;color:rgba(255,255,255,0.8);padding:0.5em 0 2em 0em}.projects .bridge p a,.projects .checkdesk p a{background-color:rgba(255,255,255,0.1);border-radius:14px;color:white;font-size:0.9em;padding:0 0.5em;text-decoration:none}@media all and (max-width: 900px){.projects .bridge svg,.projects .checkdesk svg{max-width:300px;width:100%}.projects .bridge p,.projects .checkdesk p{padding:0;width:95%}}.branding{padding:2em 1em 1em}.branding h1{margin:0;font-size:2.5em;font:Roboto,"Open Sans","Helvetica Neue","Helvetica",sans-serif;-webkit-animation:fadeIn 1.2s;animation:fadeIn 1.2s}.branding .screenshot{max-width:900px;min-width:320px;padding-top:2em;padding-bottom:2em;width:80%;margin:0 auto;-webkit-animation:fadeInUp 1s;animation:fadeInUp 1s}.branding .zoom{top:175px;-webkit-animation:fadeIn 2s;animation:fadeIn 2s}.branding .slogan{padding:1em 0;font-size:1.25em;-webkit-animation:fadeIn 1.2s;animation:fadeIn 1.2s}.branding .about{-webkit-animation:fadeIn 2.5s;animation:fadeIn 2.5s;padding:2em 0}.branding .logo{width:200px;-webkit-animation:fadeIn 0.8s;animation:fadeIn 0.8s}.bridge .branding .logo,.checkdesk .branding .logo{width:300px}@media all and (max-width: 900px){.branding .logo{max-width:200px;width:70%}}.logos a{padding:1em}.logos img,.logos svg{max-width:150px;max-height:50px}.logos .acm svg,.logos .acm img,.logos .sida svg,.logos .sida img{max-width:100px}.logos .kf svg,.logos .kf img{width:250px}.logos .kf svg,.logos .kf img,.logos .gv svg,.logos .gv img,.logos .ff svg,.logos .ff img,.logos .bcu svg,.logos .bcu img,.logos .smex svg,.logos .smex img,.logos .bc svg,.logos .bc img,.logos .vc svg,.logos .vc img,.logos .cambridge svg,.logos .cambridge img{max-width:250px}.logos .bc img{max-height:90px}.logos .ng{margin-top:10px}.home .latest{padding-bottom:6em}.home .latest .medium-channels{-webkit-box-pack:center;-webkit-justify-content:center;-ms-flex-pack:center;justify-content:center}.home .latest .medium-channels .medium-channel{margin:1em 1em}.home .latest .medium-channels .medium-channel iframe{height:620px !important}.home .team ul{margin:0 auto}@media (max-width: 320px){.home .team ul{width:320px;}}@media (min-width: 480px){.home .team ul{width:480px;}}@media (min-width: 800px){.home .team ul{width:800px;}}@media (min-width: 1120px){.home .team ul{width:1120px;}}@media (min-width: 1600px){.home .team ul{width:1600px;}}@media (min-width: 2240px){.home .team ul{width:2240px;}}.home .team ul .name{font-weight:500;padding-top:.5em}.home .team ul li{-webkit-box-flex:0;-webkit-flex:0 1 auto;-ms-flex:0 1 auto;flex:0 1 auto;font-family:Roboto,"Open Sans","Helvetica Neue","Helvetica",sans-serif;font-size:0.7em;height:15em;width:160px}.home .team ul img{border-radius:50%;max-height:100px;max-width:100px;width:100%;-webkit-filter:sepia(25%);filter:sepia(25%)}.explanations{margin:0 auto;padding:1;width:100%;max-width:800px}.explanations h4{font-size:1;font-weight:100;padding:3em 0em .5em 0em;width:100%}.explanations p{display:inline-block;font-size:1.2em;vertical-align:top;text-align:left;width:100%;padding:1em 1em}@media (max-width: 900px){.explanations p{width:100%;padding:1em;}}.explanations img.screenshot{display:inline-block;margin:2% 5%}@media (max-width: 640px){.explanations img.screenshot{width:90%;}}.footer{background-color:#283743;padding:1em}.footer a{color:white}body.bridge .branding,body.bridge .api,body.bridge .history,body.bridge .footer{background:#42476f;color:rgba(255,255,255,0.8)}body.bridge .supporters,body.bridge .explanations{background-color:white;color:#404d59}.home .photo-frame{background-color:#283743;background-image:url("../images/1x/banners/banner-2.jpg");background-position:50%;background-size:cover;background-repeat:no-repeat;vertical-align:middle;width:100%;margin:0 auto;-webkit-transition:2s;transition:2s;color:white;padding:4em 0;text-shadow:0 0 5px black}nav.language-toggle{position:absolute;top:0;right:0;margin:0.8em;padding:0.3em 1em;background-color:rgba(255,255,255,0.1);border-radius:5em}nav.language-toggle a{color:rgba(0,0,0,0.5);text-decoration:none;padding:0.2em 0.3em 0}:lang(ar) nav.language-toggle a.arabic,:lang(en) nav.language-toggle a.english{color:black;font-weight:700}nav.language-toggle a.english{float:left;font-size:0.8em;margin-top:0.2em}nav.language-toggle a.arabic{float:right}.bridge .signup{color:rgba(255,255,255,0.7);font-size:0.8em;padding:2em 0 0.5em;background:250% #42476f url("/images/2x/banners/topo.png");font-weight:200;letter-spacing:0.03em}.bridge .signup p{margin-top:0.5em;line-height:1.6}.bridge .signup h2{font-size:1em;padding:0.5em}.bridge .signup a{color:white;color:white;text-decoration:none;text-shadow:0.03em 0 #42476f,-0.03em 0 #42476f,0 0.03em #42476f,0 -0.03em #42476f,0.06em 0 #42476f,-0.06em 0 #42476f,0.09em 0 #42476f,-0.09em 0 #42476f,0.12em 0 #42476f,-0.12em 0 #42476f,0.15em 0 #42476f,-0.15em 0 #42476f;background-image:-webkit-linear-gradient(#42476f, #42476f), linear-gradient(#42476f, #42476f), linear-gradient(white, white);background-image:linear-gradient(#42476f, #42476f),linear-gradient(#42476f, #42476f),linear-gradient(white, white);background-size:.05em 1px,.05em 1px,1px 1px;background-repeat:no-repeat, no-repeat, repeat-x;background-position:0% 90%,100% 90%,0% 90%}.bridge .signup a::-moz-selection{text-shadow:0.03em 0 #b4d5fe,-0.03em 0 #b4d5fe,0 0.03em #b4d5fe,0 -0.03em #b4d5fe,0.06em 0 #b4d5fe,-0.06em 0 #b4d5fe,0.09em 0 #b4d5fe,-0.09em 0 #b4d5fe,0.12em 0 #b4d5fe,-0.12em 0 #b4d5fe,0.15em 0 #b4d5fe,-0.15em 0 #b4d5fe;background-color:#b4d5fe}.bridge .signup a::selection{text-shadow:0.03em 0 #b4d5fe,-0.03em 0 #b4d5fe,0 0.03em #b4d5fe,0 -0.03em #b4d5fe,0.06em 0 #b4d5fe,-0.06em 0 #b4d5fe,0.09em 0 #b4d5fe,-0.09em 0 #b4d5fe,0.12em 0 #b4d5fe,-0.12em 0 #b4d5fe,0.15em 0 #b4d5fe,-0.15em 0 #b4d5fe;background-color:#b4d5fe}.bridge .signup a::-moz-selection{text-shadow:0.03em 0 #b4d5fe,-0.03em 0 #b4d5fe,0 0.03em #b4d5fe,0 -0.03em #b4d5fe,0.06em 0 #b4d5fe,-0.06em 0 #b4d5fe,0.09em 0 #b4d5fe,-0.09em 0 #b4d5fe,0.12em 0 #b4d5fe,-0.12em 0 #b4d5fe,0.15em 0 #b4d5fe,-0.15em 0 #b4d5fe;background-color:#b4d5fe}.bridge .signup a:before,.bridge .signup a:after,.bridge .signup a *,.bridge .signup a *:before,.bridge .signup a *:after{text-shadow:none}.bridge .signup a:visited{color:white}.bridge .history a{color:white;color:white;text-decoration:none;text-shadow:0.03em 0 #42476f,-0.03em 0 #42476f,0 0.03em #42476f,0 -0.03em #42476f,0.06em 0 #42476f,-0.06em 0 #42476f,0.09em 0 #42476f,-0.09em 0 #42476f,0.12em 0 #42476f,-0.12em 0 #42476f,0.15em 0 #42476f,-0.15em 0 #42476f;background-image:-webkit-linear-gradient(#42476f, #42476f), linear-gradient(#42476f, #42476f), linear-gradient(white, white);background-image:linear-gradient(#42476f, #42476f),linear-gradient(#42476f, #42476f),linear-gradient(white, white);background-size:.05em 1px,.05em 1px,1px 1px;background-repeat:no-repeat, no-repeat, repeat-x;background-position:0% 90%,100% 90%,0% 90%}.bridge .history a::-moz-selection{text-shadow:0.03em 0 #b4d5fe,-0.03em 0 #b4d5fe,0 0.03em #b4d5fe,0 -0.03em #b4d5fe,0.06em 0 #b4d5fe,-0.06em 0 #b4d5fe,0.09em 0 #b4d5fe,-0.09em 0 #b4d5fe,0.12em 0 #b4d5fe,-0.12em 0 #b4d5fe,0.15em 0 #b4d5fe,-0.15em 0 #b4d5fe;background-color:#b4d5fe}.bridge .history a::selection{text-shadow:0.03em 0 #b4d5fe,-0.03em 0 #b4d5fe,0 0.03em #b4d5fe,0 -0.03em #b4d5fe,0.06em 0 #b4d5fe,-0.06em 0 #b4d5fe,0.09em 0 #b4d5fe,-0.09em 0 #b4d5fe,0.12em 0 #b4d5fe,-0.12em 0 #b4d5fe,0.15em 0 #b4d5fe,-0.15em 0 #b4d5fe;background-color:#b4d5fe}.bridge .history a::-moz-selection{text-shadow:0.03em 0 #b4d5fe,-0.03em 0 #b4d5fe,0 0.03em #b4d5fe,0 -0.03em #b4d5fe,0.06em 0 #b4d5fe,-0.06em 0 #b4d5fe,0.09em 0 #b4d5fe,-0.09em 0 #b4d5fe,0.12em 0 #b4d5fe,-0.12em 0 #b4d5fe,0.15em 0 #b4d5fe,-0.15em 0 #b4d5fe;background-color:#b4d5fe}.bridge .history a:before,.bridge .history a:after,.bridge .history a *,.bridge .history a *:before,.bridge .history a *:after{text-shadow:none}.bridge .history a:visited{color:white}body.checkdesk .explanations{background-color:white;color:#404d59}body.checkdesk .team{background-color:#f1f2ed}body.checkdesk .branding{background-color:#e4ba2a;color:white}body.checkdesk .history,body.checkdesk .github,body.checkdesk .footer{background-color:#404d59;color:#e7e8ea}body.checkdesk .history a,body.checkdesk .github a,body.checkdesk .footer a{color:rgba(255,255,255,0.7);padding:0.18em}body.checkdesk .history a a:hover,body.checkdesk .github a a:hover,body.checkdesk .footer a a:hover{background-color:rgba(231,232,234,0.5)}body.checkdesk .newsletter{background-color:#fafbfb}body.checkdesk .partners{background-color:white}.checkdesk .form-group{font-size:1.3em}.checkdesk .form-group input{font-size:inherit}body.ar{direction:rtl}.footer{font-size:smaller}body.home{background-color:white}.twocolumn{-webkit-box-pack:center;-webkit-justify-content:center;-ms-flex-pack:center;justify-content:center}.quote{max-width:45%;padding:1em 1.5em 2em 1em}.quote p{font-size:1em}@media all and (max-width: 900px){.quote{min-width:100%;}}.quote p.bottomquote{font-weight:500;padding:0 0 0 0}

diff --git a/src/sass/screen.scss b/src/sass/screen.scss
@@ -132,7 +132,7 @@ $item-width: 160px;
     display: inline-block;
     margin: 2% 5%;
     @media (max-width: 640px) {
-      height: 100%;
+      width: 90%;
     }
   }
 }
